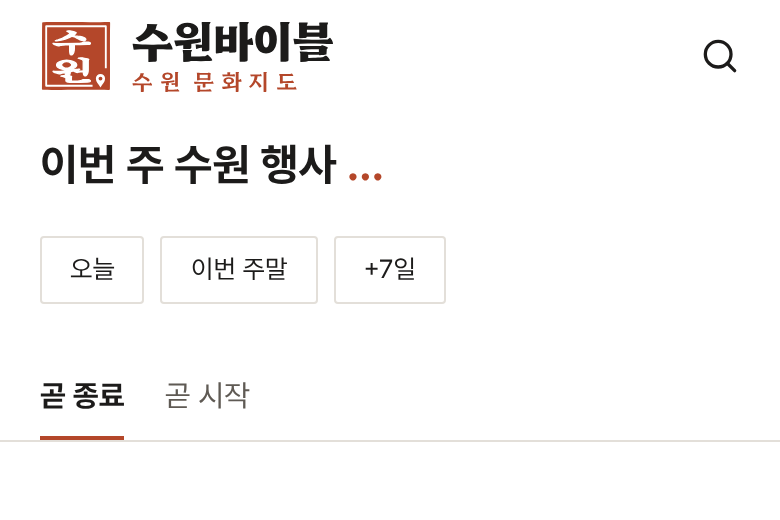
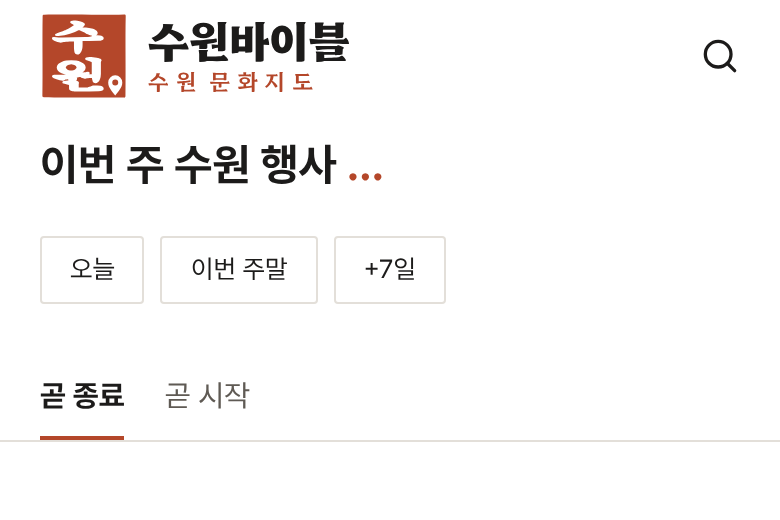
fix: 브랜드 보완 — 작은 도장(테두리 없이 굵게) · PC 도장 종이색 칸 · 파란 버튼을 벽돌색으로
- logo.svg#seal-sm: 48px 이하용, 화면 로고 · favicon svg/32 에 사용. 모바일 홈 도장 36→44px
- PC 상단 바 도장에 종이색(#f6f1e7) 칸
- .login-btn.login · .modal-link-btn 파랑(#4a90d9) → --accent

Claude-Session: https://claude.ai/code/session_01JYUS9TnT7NiVFkFLneofwk

Changed region(s): [[0.0308, 0.0, 0.4615, 0.2154]]

diff --git a/src/main/resources/static/index.html b/src/main/resources/static/index.html
@@ -32,7 +32,7 @@
     <div id="topbar">
       <!-- PC 전용 로고: 낙관(도장 "수원" + 지도 핀) + 워드마크 "수원바이블" / 아래 줄 부제. 글자는 윤곽(path) — static/brand/logo.svg (scripts/brand) -->
       <a class="topbar-brand" href="/" aria-label="수원바이블 · 수원 문화지도">
-        <svg class="brand-seal" aria-hidden="true"><use href="/brand/logo.svg#seal" /></svg>
+        <svg class="brand-seal" aria-hidden="true"><use href="/brand/logo.svg#seal-sm" /></svg>
         <span class="brand-words" aria-hidden="true"><svg class="brand-name"><use href="/brand/logo.svg#wordmark" /></svg><svg class="brand-sub"><use href="/brand/logo.svg#tagline" /></svg></span>
       </a>
       <select id="categorySelect">
@@ -96,7 +96,7 @@
     <!-- 모바일 전용: 홈 화면 (docs/design/mobile-design-v1.md 01). 지도 위를 덮고 페이지 전체가 스크롤 -->
     <section id="homeView" aria-label="홈">
       <header class="home-head">
-        <span class="home-logo" role="img" aria-label="수원바이블 · 수원 문화지도"><svg class="brand-seal" aria-hidden="true"><use href="/brand/logo.svg#seal" /></svg><span class="brand-words" aria-hidden="true"><svg class="brand-name"><use href="/brand/logo.svg#wordmark" /></svg><svg class="brand-sub"><use href="/brand/logo.svg#tagline" /></svg></span></span>
+        <span class="home-logo" role="img" aria-label="수원바이블 · 수원 문화지도"><svg class="brand-seal" aria-hidden="true"><use href="/brand/logo.svg#seal-sm" /></svg><span class="brand-words" aria-hidden="true"><svg class="brand-name"><use href="/brand/logo.svg#wordmark" /></svg><svg class="brand-sub"><use href="/brand/logo.svg#tagline" /></svg></span></span>
         <button id="homeSearchBtn" type="button" class="icon-btn" aria-label="행사 검색">
           <svg viewBox="0 0 24 24" fill="none" stroke="currentColor" stroke-width="1.8" stroke-linecap="round" aria-hidden="true"><circle cx="11" cy="11" r="7" /><path d="M20 20l-3.5-3.5" /></svg>
         </button>

diff --git a/src/main/resources/static/css/index.css b/src/main/resources/static/css/index.css
@@ -82,6 +82,13 @@ body {
   width: 32px;
   height: 32px;
 }
+/* 어두운 상단 바: 도장을 종이색 칸에 얹어 바탕과 떼어 놓음 (벽돌 · #222 대비가 약해서) */
+.topbar-brand .brand-seal {
+  box-sizing: content-box;
+  padding: 2px;
+  border-radius: 3px;
+  background: #f6f1e7;
+}
 .brand-words {
   display: flex;
   flex-direction: column;
@@ -141,9 +148,10 @@ body {
   background: #555;
   color: #fff;
 }
+/* 로그인 · 마이페이지 · 서비스 안내 · 처리방침: 브랜드 벽돌색 한 가지 (전엔 파랑 #4a90d9) */
 .login-btn.login {
-  background: #4a90d9;
-  color: #fff;
+  background: var(--accent);
+  color: var(--on-accent);
 }
 
 #app {
@@ -422,9 +430,9 @@ body {
 .modal-link-btn {
   padding: 0.5rem 1rem;
   border-radius: 8px;
-  border: 1px solid #4a90d9;
+  border: 1px solid var(--accent);
   background: #fff;
-  color: #4a90d9;
+  color: var(--accent);
   cursor: pointer;
   font-size: 0.9rem;
   text-decoration: none;
@@ -1651,8 +1659,8 @@ body {
     color: var(--text);
   }
   .home-logo .brand-seal {
-    width: 36px;
-    height: 36px;
+    width: 44px;
+    height: 44px;
   }
   .home-logo .brand-name {
     width: 101px;

diff --git a/scripts/brand/make_brand.py b/scripts/brand/make_brand.py
@@ -110,6 +110,23 @@ def seal_inner(song, white="#fff", frame=2.2, weight=1.1):
     )
 
 
+# 작은 도장(48px 이하: 화면 로고 · 파비콘 32): 안쪽 테두리 없이 글자를 크고 굵게, 핀도 조금 크게
+SMALL_GLYPH_BOX = {"수": (15, 11, 71, 47), "원": (15, 52.5, 71, 89)}
+PIN_SMALL = (
+    "M85.5 95C82 89.8 77.5 86 77.5 80A8 8 0 1 1 93.5 80"
+    "C93.5 86 89 89.8 85.5 95ZM85.5 76.6A3.4 3.4 0 1 0 85.5 83.4A3.4 3.4 0 1 0 85.5 76.6Z"
+)
+
+
+def seal_sm(song, white="#fff", weight=2.8):
+    d = "".join(fit(song, ch, box) for ch, box in SMALL_GLYPH_BOX.items())
+    return (
+        f'<path fill="{BRICK}" d="{SEAL_OUTER}"/>'
+        f'<path fill="{white}" stroke="{white}" stroke-width="{weight}" stroke-linejoin="round" d="{d}"/>'
+        f'<path fill="{white}" fill-rule="evenodd" d="{PIN_SMALL}"/>'
+    )
+
+
 def seal_small(song):
     """16px 파비콘: "수" 한 글자 + 핀 점. 테두리 선 없음 (16px 에선 뭉개짐)"""
     d = fit(song, "수", (12, 12, 70, 88))
@@ -158,14 +175,15 @@ def main():
     word_vb = f"0 {fmt(top)} {fmt(vb_w)} {fmt(vb_h)}"
     sprite = (
         f'<svg xmlns="http://www.w3.org/2000/svg">{CREDIT}'
-        f'<symbol id="seal" viewBox="0 0 100 100">{seal_inner(song, frame=2.6, weight=1.8)}</symbol>'  # 화면은 32~36px → 선 · 글자 조금 굵게
+        f'<symbol id="seal" viewBox="0 0 100 100">{seal_inner(song)}</symbol>'
+        f'<symbol id="seal-sm" viewBox="0 0 100 100">{seal_sm(song)}</symbol>'  # 화면 로고(32~48px)는 작은 도장
         f'<symbol id="wordmark" viewBox="0 {fmt(top)} {fmt(name_w)} {fmt(name_bot - top)}"><path fill="currentColor" d="{name_d}"/></symbol>'
         f'<symbol id="tagline" viewBox="4 {fmt(sub_top2)} {fmt(sub_w)} {fmt(sub_bot2 - sub_top2)}"><path fill="currentColor" d="{sub_d}"/></symbol>'
         "</svg>\n"
     )
     (BRAND / "logo.svg").write_text(sprite, encoding="utf-8")
     (BRAND / "logo-mark.svg").write_text(svg("0 0 100 100", seal_inner(song), 32, 32), encoding="utf-8")
-    (BRAND / "favicon.svg").write_text(svg("0 0 100 100", seal_inner(song, frame=3.2, weight=2.6), 32, 32), encoding="utf-8")
+    (BRAND / "favicon.svg").write_text(svg("0 0 100 100", seal_sm(song), 32, 32), encoding="utf-8")
     (WORK / "favicon-16.svg").write_text(svg("0 0 100 100", seal_small(song), 16, 16), encoding="utf-8")
     (WORK / "icon.svg").write_text(svg("0 0 100 100", seal_icon(song), 512, 512), encoding="utf-8")
     (WORK / "wordmark.svg").write_text(

diff --git a/src/test/java/com/suwon/festival/controller/BrandAssetsTest.java b/src/test/java/com/suwon/festival/controller/BrandAssetsTest.java
@@ -56,7 +56,7 @@ class BrandAssetsTest {
         .contains("property=\"og:image\" content=\"https://suwonbible.com/brand/og-image.png\"")
         .contains("class=\"topbar-brand\"", "class=\"home-logo\"")
         // 로고 = 도장 + 워드마크 + 아래 줄 부제 (글자 윤곽 SVG, 11/11 낙관 + 핀)
-        .contains("href=\"/brand/logo.svg#seal\"", "href=\"/brand/logo.svg#wordmark\"", "href=\"/brand/logo.svg#tagline\"")
+        .contains("href=\"/brand/logo.svg#seal-sm\"", "href=\"/brand/logo.svg#wordmark\"", "href=\"/brand/logo.svg#tagline\"")
         .contains("aria-label=\"수원바이블 · 수원 문화지도\"");
   }
 
@@ -90,7 +90,7 @@ class BrandAssetsTest {
   void 로고_SVG는_글꼴_없이_윤곽으로_그리고_글꼴_라이선스를_적음() throws Exception {
     String sprite = body("/brand/logo.svg");
     assertThat(sprite)
-        .contains("<symbol id=\"seal\"", "<symbol id=\"wordmark\"", "<symbol id=\"tagline\"")
+        .contains("<symbol id=\"seal\"", "<symbol id=\"seal-sm\"", "<symbol id=\"wordmark\"", "<symbol id=\"tagline\"")
         .contains("#b4472a") // 도장 벽돌색
         .contains("SIL Open Font License")
         .doesNotContain("<text", "font-family", "@font-face"); // 글자는 path 로만

diff --git a/PROGRESS-LOG.md b/PROGRESS-LOG.md
@@ -254,3 +254,4 @@
 | 11/11 | 분기 세션(클라우드) | feat 긴 행사 캘린더 고른 하루(M): 시작~종료 포함 31일 이상(상설 등)은 몇 달짜리 종일 막대 대신 `modalCalDate` 에서 고른 하루 — 기본 오늘(기간 안) · 아니면 시작일, 목록 최대 90일. 진행 날짜(DATES) 행사는 진행일 규칙이 먼저, 30일 이하는 그대로. 서버 `checkRunDate` 도 같은 기준(`isLongEvent` · 화면 `hasRunDates` 와 같은 진행 날짜 판정)으로 기간 안 날짜 허용, 고른 날 시간은 #194 규칙 그대로. 시험 29 · 30 · 31일 경계 · 구글 · .ics |
 | 11/11 | 분기 세션(클라우드) | feat 서비스 브랜드(M): 이름 수원바이블 + 부제 수원 문화지도(탭 제목 5개 · 메타 설명 · 로고 옆 · 공유 이미지). 로고 = 화성 성벽 여장 + 지도 핀 단색 SVG(`static/brand`, PC 상단 바 왼쪽 · 모바일 홈 상단), favicon svg · 32px png · `/favicon.ico`, apple-touch 180, manifest(벽돌색 · 192/512), og:image 1200×630 · og 메타, 카카오톡 공유는 행사 사진이 없으면 이 공유 이미지(피드). 글꼴 Pretendard 부분 글꼴 3굵기(약 800KB) 우리 서버 → PC · 모바일 통일, Google Fonts 링크 제거 · CSP `style-src 'self'` 로 줄임. 시험 `BrandAssetsTest` · 보안 헤더 · CSP 시험 갱신, 화면 시험 390 · 1280 CSP 위반 0 |
 | 11/11 | 분기 세션(클라우드) | feat 브랜드 다시 만들기 — 낙관(도장) + 핀(M, 사용자 선택 A): "AI 같음" 피드백 → 벽돌 정사각 도장 "수 / 원"(Song Myung) + 오른쪽 아래 지도 핀(테두리가 열린 모서리), 워드마크 "수원바이블"(Hahmlet 800) + 아래 줄 부제 "수원 문화지도"(벽돌 · 자간 .32em). 글자는 fonttools 로 윤곽(path) → `brand/logo.svg`(#seal · #wordmark · #tagline, `<use>` + CSS 색), 글꼴 파일은 배포 안 함 · OFL 출처 `scripts/brand`. 아이콘 180/192/512 · favicon svg/32 = 도장, 16px = "수" + 핀, 공유 이미지 = 종이 바탕 · 왼쪽 글 · 오른쪽 기울인 도장. PC 상단 바 부제 #e9906f(대비 6.6:1). 캡처 `docs/design/brand/seal-*` |
+| 11/11 | 분기 세션(클라우드) | fix 브랜드 #202 보완(M, 사용자 피드백 B): ① 48px 이하 도장 = 안쪽 테두리 없이 글자 크게 · 굵게(`logo.svg#seal-sm`, favicon svg/32 도 같음), 모바일 홈 도장 36→44px ② PC 상단 바 도장에 종이색 칸(#f6f1e7), 파란 버튼(`.login-btn.login` · 상세 `.modal-link-btn`)을 브랜드 벽돌색(`--accent`)으로 통일. 앱 아이콘 · 공유 이미지는 그대로. mypage 구글 연결 버튼(#4a90d9)은 구글 버튼이라 둠 |
